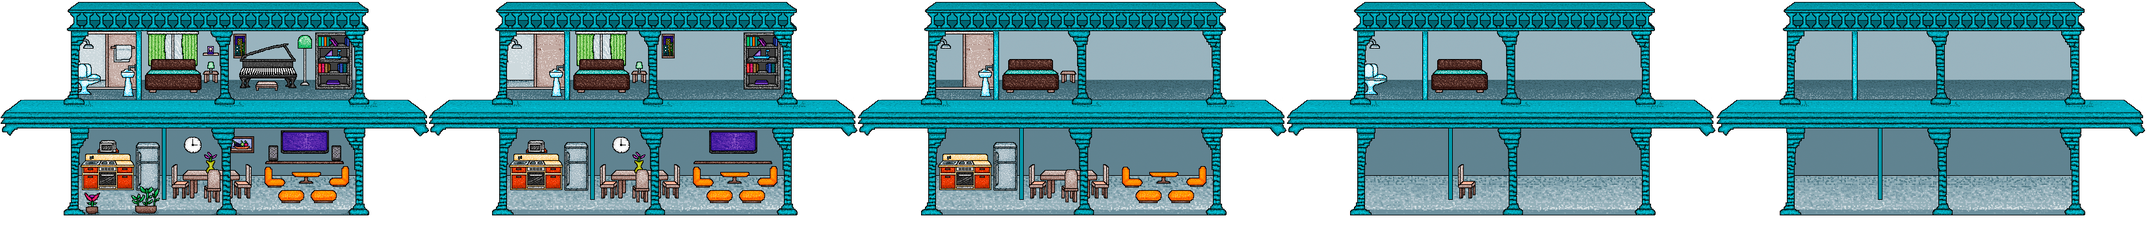
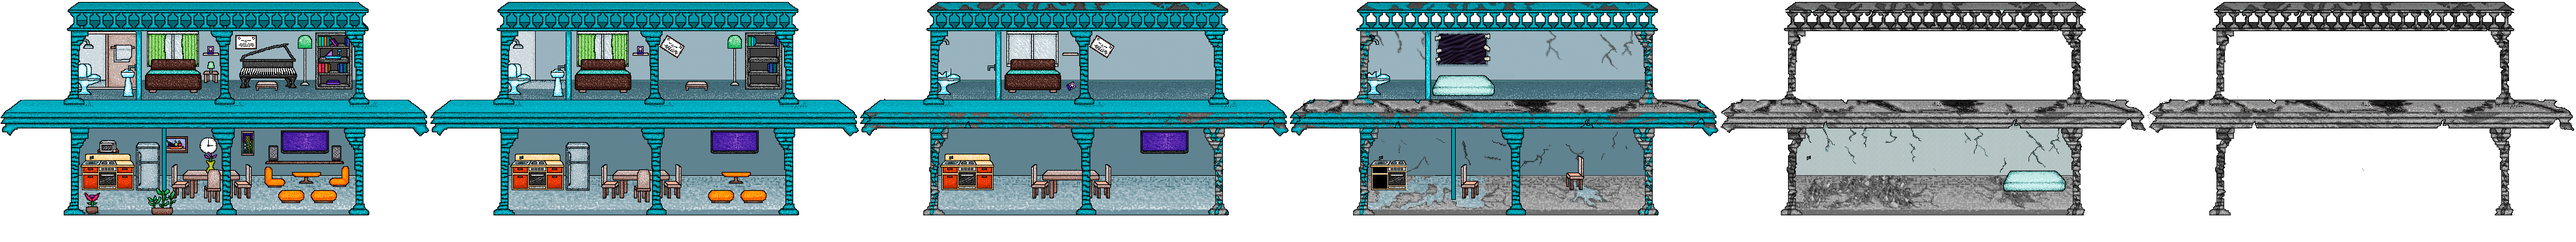
controls for joystick are better and new frame for home change

diff --git a/js/joystick.js b/js/joystick.js
@@ -3,8 +3,7 @@ var Joystick = (function (Characters,Device) {
   var rightStickX;
   var rightStickY;
   var vel=10;
-
-
+  
 
     var inputJ = function(){
         Device.setInput(1);
@@ -25,55 +24,39 @@ var Joystick = (function (Characters,Device) {
             rightStickY = pad1.axis(Phaser.Gamepad.AXIS_5);
            
               if (rightStickX){
-               mira.x += rightStickX * vel;
+                mira.x += rightStickX * vel;
               }
               if (rightStickY){
                 mira.y += rightStickY * vel;
+              }else{
+                mira.y = robot.y-100; 
               }
-            
       }  
     };
 
-    var snipeHelper = function(face){
-      
-      snipeJ();
-      
-      if(!rightStickX || !rightStickY){
-          switch(face) {
-            case "idle":
-               mira.y = robot.y-100; 
-            break;
-            case "izq":
-              mira.x = robot.x-200;
-            break;
-            case "der":
-              mira.x = robot.x+100;
-            break;
-          }
-      }
-  
-    };
+   
 
     var movementsJoystick = function () {
-      snipeHelper("idle");
+      
       if ((pad1.isDown(Phaser.Gamepad.PS3XC_DPAD_LEFT) < -0.1) || (pad1.axis(Phaser.Gamepad.PS3XC_STICK_LEFT_X) < -0.1)) {     
        Characters.moveRobot("moveLeft");
-       snipeHelper("izq");
+       mira.x = robot.x-200;
+       
       }
       else if ((pad1.isDown(Phaser.Gamepad.PS3XC_DPAD_RIGHT)  > 0.1) || (pad1.axis(Phaser.Gamepad.PS3XC_STICK_LEFT_X) > 0.1)){
        Characters.moveRobot("moveRight");
-        snipeHelper("der");
+       mira.x = robot.x+100;
+    
       }else{
          Characters.moveRobot("idleEst");
       }
-      if (pad1.isDown(Phaser.Gamepad.PS3XC_L1)){
+      if (pad1.isDown(Phaser.Gamepad.PS3XC_L1) || pad1.isDown(Phaser.Gamepad.PS3XC_L2) ){
           Characters.moveRobot("jumpEst");
       }
-      if ((pad1.justPressed(Phaser.Gamepad.PS3XC_R1))){
+
+      if  (pad1.justPressed(Phaser.Gamepad.PS3XC_R1) || pad1.justPressed(Phaser.Gamepad.PS3XC_R2)){
           Characters.moveRobot("turboEst");
       }
-
-      
     };
 
     return {

diff --git a/js/characters.js b/js/characters.js
@@ -29,14 +29,13 @@
     };
 
     var validateInput = function(){
+      robotFacing();
       if (pad1.connected){
           game.physics.arcade.moveToXY(this.robot,mira.x, mira.y,2000);
-          robotFacing();
       }else if(vj == true){
           game.physics.arcade.moveToXY(this.robot,mira.x, mira.y,700);
       }else{
          game.physics.arcade.moveToPointer(this.robot, 700);
-         robotFacing();
       }
     };
 
@@ -127,8 +126,8 @@
       
         }); 
       }
-       
     };
+
     var collideRight = function(){
        if(robot.body.touching.right){
           Audios.robotHit();

diff --git a/js/atHome.js b/js/atHome.js
@@ -3,7 +3,7 @@ var Home = (function () {
     
     var landScape;
       var preloadingHouse = function () {
-          game.load.spritesheet('casita', 'images/casita.png', 659, 373,5);
+          game.load.spritesheet('casita', 'images/casita.png', 659, 373,6);
           game.load.spritesheet('bckGrd', 'images/background.png', 1200, 719,2);
       
 

diff --git a/js/barLife.js b/js/barLife.js
@@ -81,8 +81,11 @@ var BarLife = (function (Texto,Home) {
             if(score>66){
             Home.change(3);
            }
-            if(score>77){
+           if(score>77){
             Home.change(4);
+           }
+           if(score>88){
+            Home.change(5);
            }
            
    
